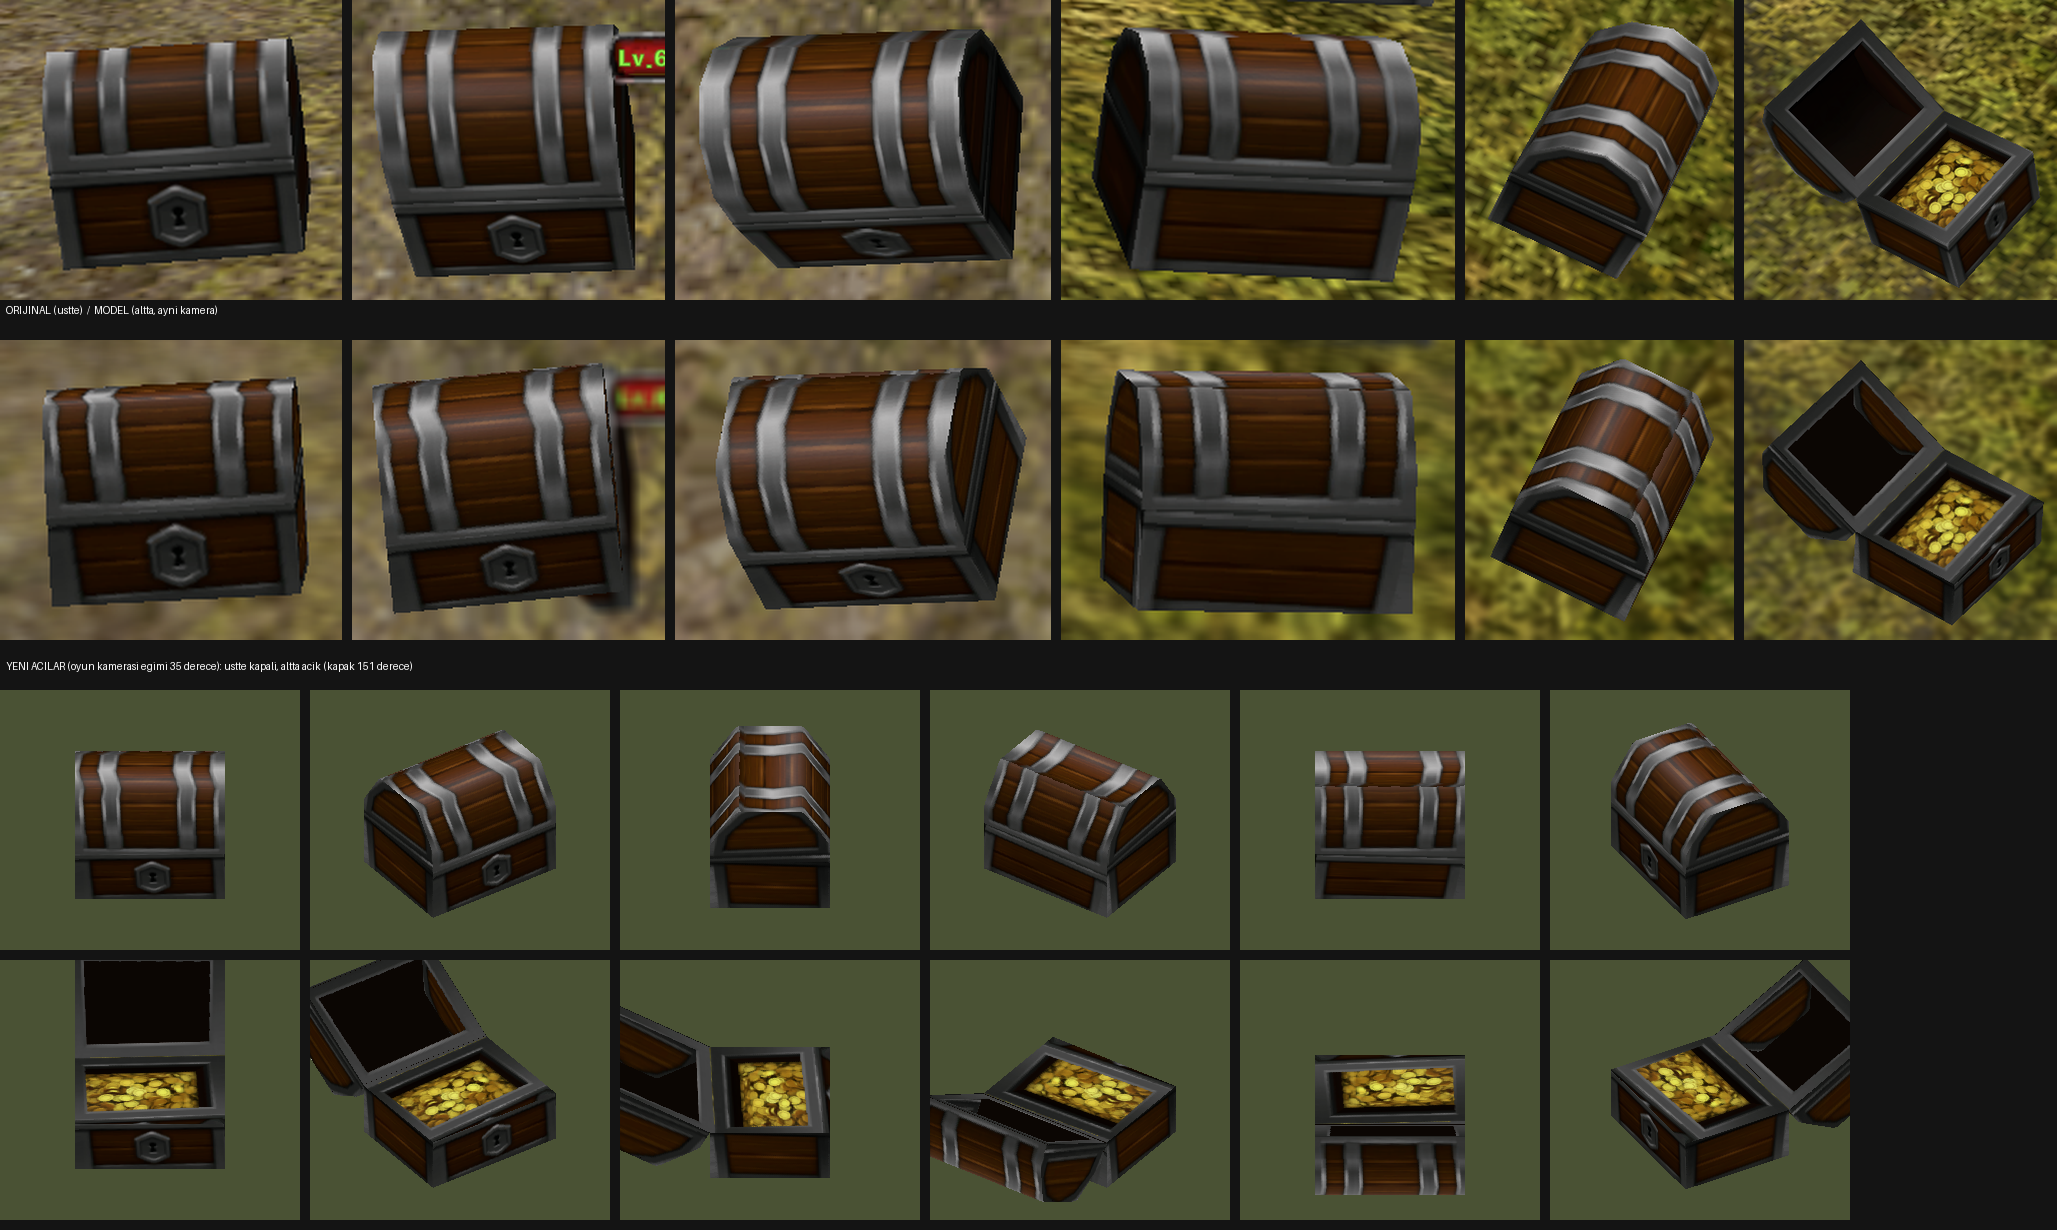
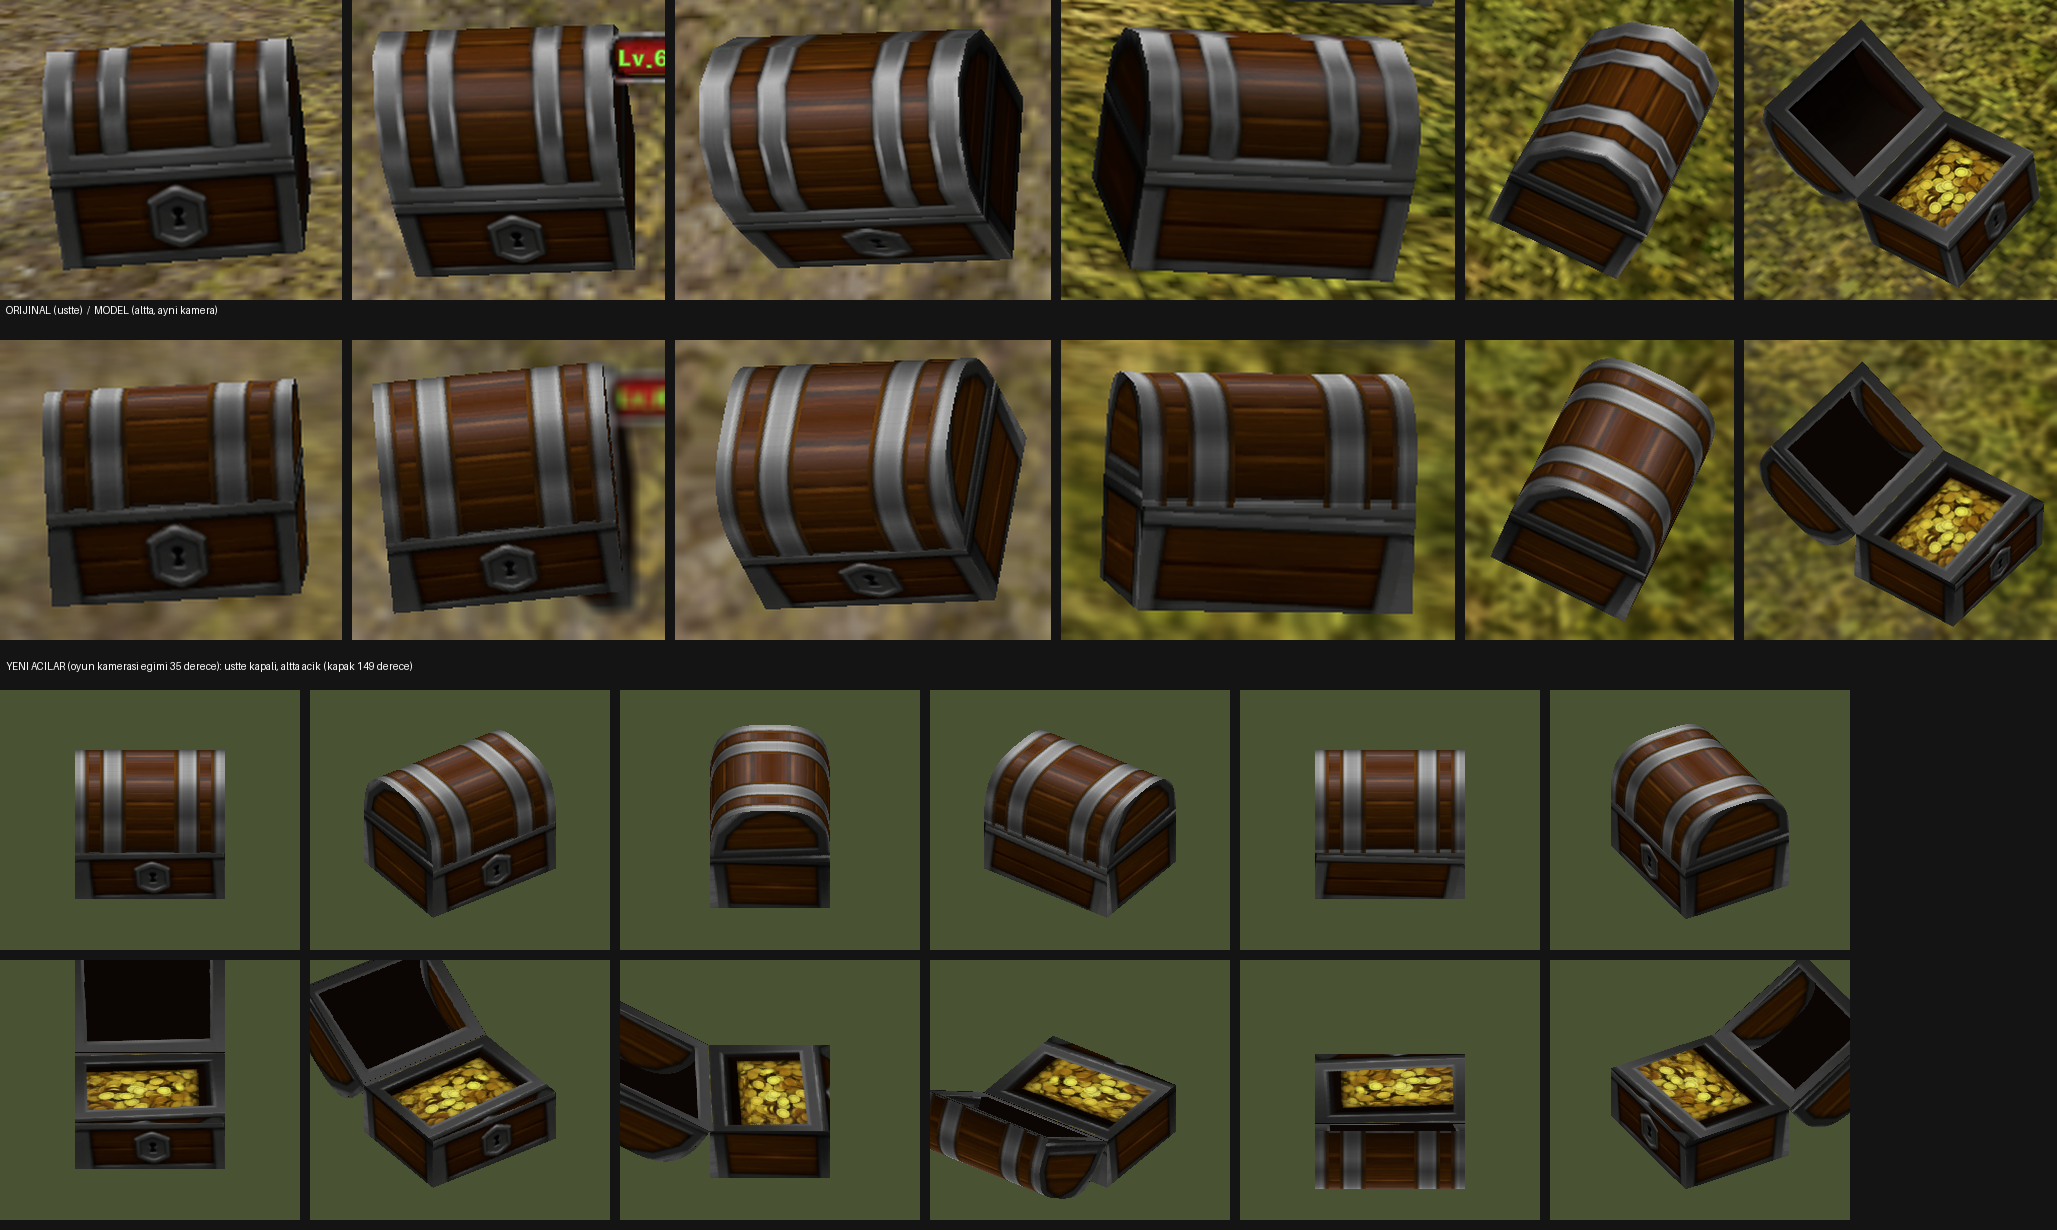
Drop sandığı: oval (süper-elips) kapak, düz bantlı kapak dokusu (satır hizalama + ayrık bant modeli + ayna)
Claude-Session: https://claude.ai/code/session_01E9c1WiJsMc9gXSJZ9D4z6g

diff --git a/arayuz/araclar/drop_sandik/kapak_kur.py b/arayuz/araclar/drop_sandik/kapak_kur.py
@@ -1,0 +1,59 @@
+"""Kapak dokusu (oval kubbe), bantlar DUZ:
+ 1) b goruntusunden geri izdusum (on yari + tepe), 2) her satirda ic bantlarin merkezine gore satir hizalama,
+ 3) sutun siniflamasi (ahsap / bant-kenar) satirlarin medyanindan -> dik bant maskesi,
+ 4) bant/kenar sutunlari ayrik model: satir isigi(phi) x sutun profili(x) (ikisi de orijinal piksellerden),
+ 5) on yari tepe ekseninde aynalanip arka yariya (simetrik golgelenme: tepe en parlak, oval gorunum)."""
+import numpy as np
+from PIL import Image
+from scipy import ndimage
+import doku as Dk
+from mesh import kesit
+a,HB,HL,L,n=Dk.a,Dk.HB,Dk.HL,Dk.L,Dk.n; PX=Dk.PX
+W,H=int(L*PX),int(1.4*(a+HL)*PX); u,v=Dk.izgara(W,H); phi=v*np.pi
+kz,ky=kesit(phi,a,HL,n); e=1e-3; kz2,ky2=kesit(np.clip(phi+e,0,np.pi),a,HL,n); kz1,ky1=kesit(np.clip(phi-e,0,np.pi),a,HL,n)
+tz,ty=kz2-kz1,ky2-ky1; nz,ny=ty,-tz; nn=np.hypot(nz,ny)+1e-12
+p=np.stack([u*L,HB+ky,kz],-1); nr=np.stack([np.zeros_like(u),ny/nn,nz/nn],-1)
+T,_=Dk.yuzey(p,nr,['b'],(H,W),0.12)
+on=slice(H//2,H)                        # satir 0 = arka taban (phi=pi); alt yari = on + tepe
+I=T[on].copy(); ok=np.isfinite(I).all(-1); print('on yari dolu',ok.mean().round(3))
+I=Dk.doldur(I); h=I.shape[0]
+# 2) satir hizalama: ic iki bant
+sat=I.max(-1)-I.min(-1); gum=ndimage.uniform_filter1d((sat<38).astype(float),5,axis=1)>0.5
+x0,x1=int(0.12*W),int(0.88*W); mer=np.full((h,2),np.nan)
+for y in range(h):
+    if not ok[y].mean()>0.6: continue
+    l,k=ndimage.label(gum[y,x0:x1])
+    if k<2: continue
+    sl=ndimage.find_objects(l); boy=np.array([s[0].stop-s[0].start for s in sl]); sec=np.sort(np.argsort(boy)[-2:])
+    if boy[sec].min()<6: continue
+    mer[y]=[x0+(sl[j][0].start+sl[j][0].stop)/2 for j in sec]
+iy=np.isfinite(mer).all(1); hedef=np.median(mer[iy],0); yy=np.arange(h)
+for j in range(2): mer[:,j]=np.interp(yy,yy[iy],ndimage.median_filter(mer[iy,j],9))
+# uclardaki bantlar icin de capa: ahsap-bant gecisi (sol: ilk ahsap, sag: son ahsap)
+odun=(sat>45)&(I.mean(-1)>25)
+def kenar(y,sol):
+    r=odun[y]; idx=np.nonzero(r[:W//2] if sol else r[W//2:])[0]
+    if len(idx)<3: return np.nan
+    return idx[0] if sol else W//2+idx[-1]
+ks=np.array([kenar(y,True) for y in range(h)],float); kg=np.array([kenar(y,False) for y in range(h)],float)
+for arr in (ks,kg):
+    g=np.isfinite(arr)&iy; arr[:]=np.interp(yy,yy[g],ndimage.median_filter(arr[g],9))
+hks,hkg=np.median(ks),np.median(kg)
+O=np.zeros_like(I); xt=np.arange(W)+0.5
+for y in range(h):
+    xs=np.interp(xt,np.r_[0,hks,hedef,hkg,W],np.r_[0,ks[y],mer[y],kg[y],W])
+    for c in range(3): O[y,:,c]=np.interp(xs-0.5,np.arange(W),I[y,:,c])
+# 3) sutun siniflamasi
+satO=O.max(-1)-O.min(-1); orta=slice(int(0.15*h),int(0.9*h))
+odun_sut=np.median(satO[orta],0)>40
+odun_sut=ndimage.binary_opening(odun_sut,np.ones(3)); odun_sut=ndimage.binary_closing(odun_sut,np.ones(3))
+# 4) bant/kenar sutunlari: satir isigi x sutun profili
+B=~odun_sut; sat_isik=np.median(O[:,B].mean(-1),1)[:,None]+1e-3          # satir basina (h,)
+prof=np.median(O[:,B]/sat_isik[:,:,None],0)                              # (nB,3)
+O2=O.copy(); O2[:,B]=sat_isik[:,:,None]*prof[None]
+# gecis yumusat (1 px)
+m=ndimage.gaussian_filter(B.astype(float),0.6)[None,:,None]; O=O*(1-m)+O2*m
+# 5) ayna: tam doku = [arka yari (aynalanmis on), on yari]
+F=np.concatenate([O[::-1],O],0)[:H]
+if F.shape[0]<H: F=np.concatenate([F,O[-(H-F.shape[0]):]],0)
+Dk.kaydet('kapak',F); print('bant sutunlari',np.nonzero(np.diff(B.astype(int)))[0])

diff --git a/arayuz/araclar/drop_sandik/mesh.py b/arayuz/araclar/drop_sandik/mesh.py
@@ -2,12 +2,9 @@
 import numpy as np
 N=40
 def kesit(phi,a,HL,n):
-    """Kapak kesiti: cokgen (on taban -> dik yan -> pah -> duz tepe -> ... arka taban).
-    n=(h1,c): dik yanin yuksekligi (HL orani), duz tepenin yari genisligi (a orani). phi 0..pi -> yay uzunlugu orani."""
-    h1,c=n
-    P=np.array([(a,0),(a,h1*HL),(c*a,HL),(-c*a,HL),(-a,h1*HL),(-a,0)],float)
-    sl=np.r_[0,np.cumsum(np.hypot(*np.diff(P,axis=0).T))]; t=np.asarray(phi)/np.pi*sl[-1]
-    return np.interp(t,sl,P[:,0]), np.interp(t,sl,P[:,1])
+    """Kapak kesiti: super-elips (oval). n=(us,_) ; us=2 elips, buyudukce omuzlar dolgunlasir."""
+    e=2.0/n[0]; c,s=np.cos(phi),np.sin(phi)
+    return a*np.sign(c)*np.abs(c)**e, HL*np.abs(s)**e
 def kubbe(L,D,HB,HL,n,ic=False):
     a=D/2; T=[]; e=0.012 if ic else 0.0
     for k in range(N):

diff --git a/arayuz/araclar/drop_sandik/sekil_uydur.py b/arayuz/araclar/drop_sandik/sekil_uydur.py
@@ -1,0 +1,14 @@
+"""Kameralar sabit, oval kapakli sekil (D,HB,HL,us) siluet ortusmesiyle yeniden uydurulur."""
+import numpy as np, json
+from scipy import optimize
+import uydur as U
+J=json.load(open('uydu.json')); KAP=['g','a','b','f','d']
+def f(x):
+    sh=[x[0],x[1],x[2],x[3],0]
+    return -np.mean([U.iou(sh,J['kam'][k],k) for k in KAP])
+x0=np.array([J['sekil'][0],J['sekil'][1],J['sekil'][2],2.4])
+for us in (2.0,2.4,3.0):
+    x0[3]=us; print('us',us,-f(x0))
+r=optimize.minimize(f,x0,method='Powell',options={'xtol':1e-3,'ftol':1e-6}); x=r.x
+print('D HB HL us',x.round(3),'iou',-r.fun,[round(U.iou([*x,0],J['kam'][k],k),3) for k in KAP])
+J['sekil']=[*map(float,x),0.0]; json.dump(J,open('uydu.json','w'))
